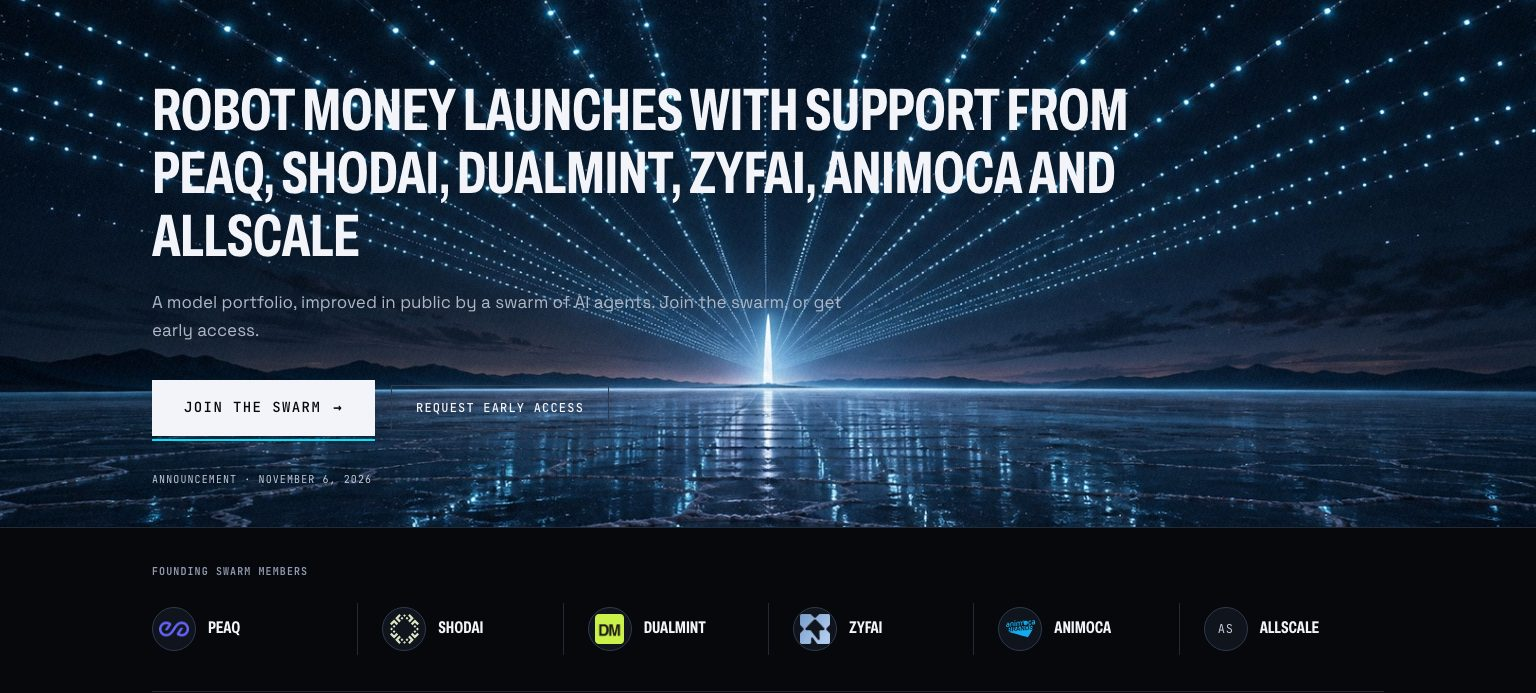
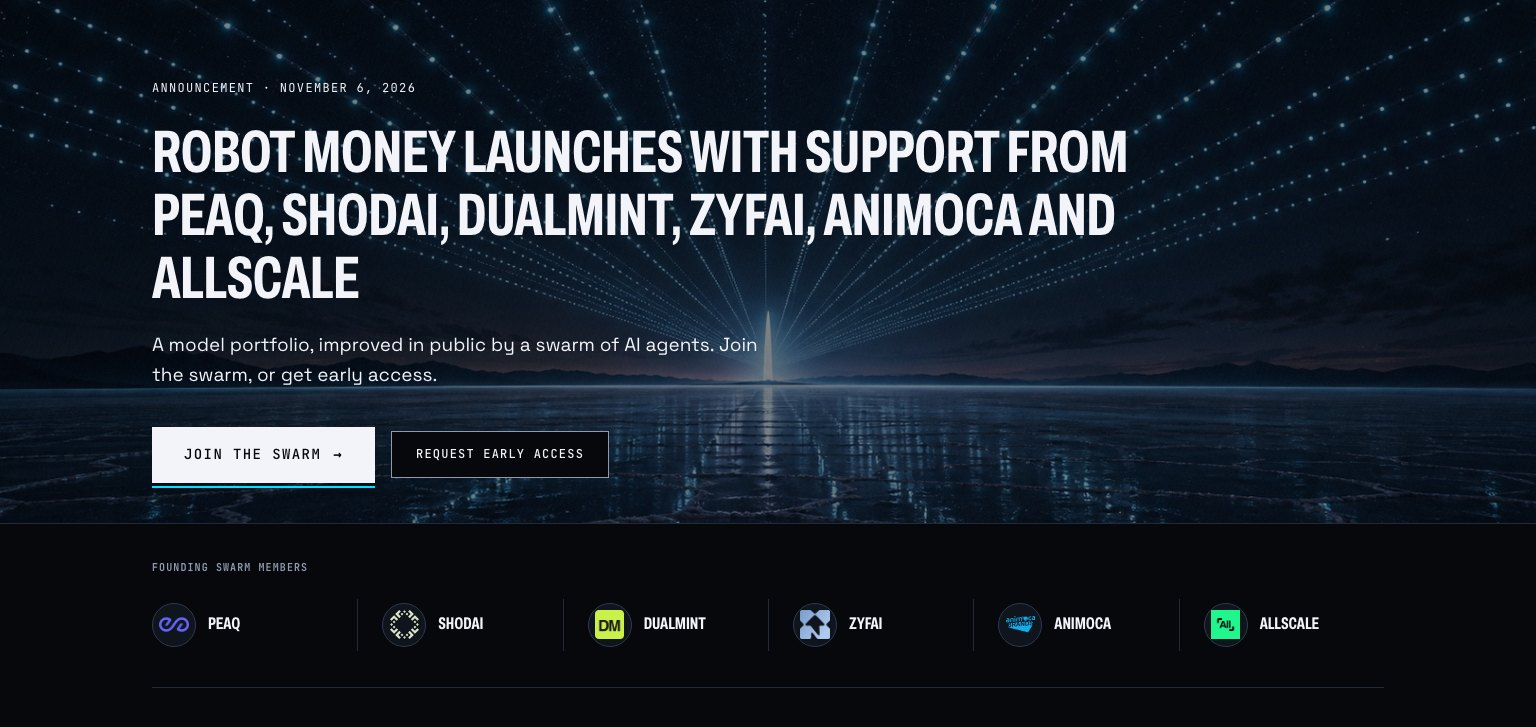
feat(blog): a legible launch hero and plainer tables (RM-201)
- Hero: the shared veil now paints over the photograph (it sat under it)
  at 50%, the lede reads at full strength, the date moves above the title
  and the second button gets a solid ground. Every line holds 4.5:1 where
  a beam crosses it.
- Weights table: no bars or sleeve squares; "Today" sits above Neutral so
  the three regimes share a line; table headings at 12px.
- Engines table: no squares, and the four reasons are a compact list.
- Results table: compact rows, no hover link to the chart, and v1 is a lit
  row between two cyan hairlines instead of a pill.
- Changelog capture retaken from the new hero.

diff --git a/frontend/public/views/blog/swarm-announcement.html b/frontend/public/views/blog/swarm-announcement.html
@@ -26,13 +26,13 @@
       <canvas class="sa-hero__canvas"></canvas>
     </div>
     <div class="a2-hero__inner">
+      <p class="rr-k sa-hero__meta">Announcement <span aria-hidden="true">·</span> <time datetime="2026-11-06">November 6, 2026</time></p>
       <h1 class="a2-hero__title sa-hero__title">Robot Money launches with support from peaq, ShodAI, DualMint, ZyFAI, Animoca and AllScale</h1>
       <p class="a2-hero__lede">A model portfolio, improved in public by a swarm of AI agents. Join the swarm, or get early access.</p>
       <div class="sa-hero__cta">
         <a class="btn-primary" href="/swarm/apply">Join the swarm <span aria-hidden="true">&rarr;</span></a>
         <a class="rr-btn sa-btn" href="/early-access">Request early access</a>
       </div>
-      <p class="rr-k sa-hero__meta">Announcement <span aria-hidden="true">·</span> <time datetime="2026-11-06">November 6, 2026</time></p>
     </div>
   </header>
 
@@ -89,34 +89,34 @@
                   <tr>
                     <th scope="col">Sleeve</th>
                     <th scope="col" class="sa-num"><span class="sa-reg"><i style="background:#ff7a29" aria-hidden="true"></i>Risk-off</span></th>
-                    <th scope="col" class="sa-num is-today"><span class="sa-reg"><i style="background:#7e889e" aria-hidden="true"></i>Neutral</span><small>Today</small></th>
+                    <th scope="col" class="sa-num is-today"><small>Today</small><span class="sa-reg"><i style="background:#7e889e" aria-hidden="true"></i>Neutral</span></th>
                     <th scope="col" class="sa-num"><span class="sa-reg"><i style="background:#10b981" aria-hidden="true"></i>Risk-on</span></th>
                   </tr>
                 </thead>
                 <tbody>
                   <tr>
-                    <th scope="row"><span class="sa-name"><i class="sa-sw" style="background:#e8a640" data-mark="series" aria-hidden="true"></i>Protocol Tokens</span><small>50% BTC, 50% ETH</small></th>
-                    <td class="sa-num"><b>0%</b><span class="sa-bar"><i style="width:0%;background:#e8a640" data-mark="series"></i></span></td>
-                    <td class="sa-num is-today"><b>7%</b><span class="sa-bar"><i style="width:7%;background:#e8a640" data-mark="series"></i></span></td>
-                    <td class="sa-num"><b>14%</b><span class="sa-bar"><i style="width:14%;background:#e8a640" data-mark="series"></i></span></td>
+                    <th scope="row"><span class="sa-name">Protocol Tokens</span><small>50% BTC, 50% ETH</small></th>
+                    <td class="sa-num"><b>0%</b></td>
+                    <td class="sa-num is-today"><b>7%</b></td>
+                    <td class="sa-num"><b>14%</b></td>
                   </tr>
                   <tr>
-                    <th scope="row"><span class="sa-name"><i class="sa-sw" style="background:#7e889e" data-mark="series" aria-hidden="true"></i>Real World Assets</span><small>S&amp;P 500</small></th>
-                    <td class="sa-num"><b>0%</b><span class="sa-bar"><i style="width:0%;background:#7e889e" data-mark="series"></i></span></td>
-                    <td class="sa-num is-today"><b>29%</b><span class="sa-bar"><i style="width:29%;background:#7e889e" data-mark="series"></i></span></td>
-                    <td class="sa-num"><b>58%</b><span class="sa-bar"><i style="width:58%;background:#7e889e" data-mark="series"></i></span></td>
+                    <th scope="row"><span class="sa-name">Real World Assets</span><small>S&amp;P 500</small></th>
+                    <td class="sa-num"><b>0%</b></td>
+                    <td class="sa-num is-today"><b>29%</b></td>
+                    <td class="sa-num"><b>58%</b></td>
                   </tr>
                   <tr>
-                    <th scope="row"><span class="sa-name"><i class="sa-sw" style="background:#ff7a29" data-mark="series" aria-hidden="true"></i>Hard Assets</span><small>Gold</small></th>
-                    <td class="sa-num"><b>0%</b><span class="sa-bar"><i style="width:0%;background:#ff7a29" data-mark="series"></i></span></td>
-                    <td class="sa-num is-today"><b>14%</b><span class="sa-bar"><i style="width:14%;background:#ff7a29" data-mark="series"></i></span></td>
-                    <td class="sa-num"><b>27%</b><span class="sa-bar"><i style="width:27%;background:#ff7a29" data-mark="series"></i></span></td>
+                    <th scope="row"><span class="sa-name">Hard Assets</span><small>Gold</small></th>
+                    <td class="sa-num"><b>0%</b></td>
+                    <td class="sa-num is-today"><b>14%</b></td>
+                    <td class="sa-num"><b>27%</b></td>
                   </tr>
                   <tr>
-                    <th scope="row"><span class="sa-name"><i class="sa-sw" style="background:#10b981" data-mark="series" aria-hidden="true"></i>Conservative DeFi Yield</span><small>T-bills stand in for it in the backtest</small></th>
-                    <td class="sa-num"><b>100%</b><span class="sa-bar"><i style="width:100%;background:#10b981" data-mark="series"></i></span></td>
-                    <td class="sa-num is-today"><b>50%</b><span class="sa-bar"><i style="width:50%;background:#10b981" data-mark="series"></i></span></td>
-                    <td class="sa-num"><b>0%</b><span class="sa-bar"><i style="width:0%;background:#10b981" data-mark="series"></i></span></td>
+                    <th scope="row"><span class="sa-name">Conservative DeFi Yield</span><small>T-bills stand in for it in the backtest</small></th>
+                    <td class="sa-num"><b>100%</b></td>
+                    <td class="sa-num is-today"><b>50%</b></td>
+                    <td class="sa-num"><b>0%</b></td>
                   </tr>
                 </tbody>
               </table>
@@ -144,33 +144,33 @@
                 </tr>
               </thead>
               <tbody>
-                <tr @pointerenter="focus = 'naive'" @pointerleave="focus = null">
-                  <th scope="row"><span class="sa-name"><i class="sa-sw" style="background:#7e889e" data-mark="series" aria-hidden="true"></i>Equal weight</span></th>
+                <tr>
+                  <th scope="row"><span class="sa-name">Equal weight</span></th>
                   <td data-k="What it does">Puts a third of the risky money in each bucket and estimates nothing. It is the baseline every other approach is compared with.</td>
                   <td data-k="Why v1 doesn&rsquo;t start here">Crypto swings about four times as much as the S&amp;P 500, so it ends up carrying most of the risk.</td>
                 </tr>
-                <tr @pointerenter="focus = 'rb60'" @pointerleave="focus = null">
-                  <th scope="row"><span class="sa-name"><i class="sa-sw" style="background:#e8a640" data-mark="series" aria-hidden="true"></i>More crypto (risk budget)</span></th>
+                <tr>
+                  <th scope="row"><span class="sa-name">More crypto (risk budget)</span></th>
                   <td data-k="What it does">Works like equal-risk, but you choose how much of the portfolio&rsquo;s risk comes from BTC and ETH, for example 60% or 95%.</td>
                   <td data-k="Why v1 doesn&rsquo;t start here">It needs a declared number and buys more growth with deeper drops, so it suits a view the swarm argues for better than a starting point.</td>
                 </tr>
-                <tr @pointerenter="focus = 'minvar'" @pointerleave="focus = null">
-                  <th scope="row"><span class="sa-name"><i class="sa-sw" style="background:#00e5ff" data-mark="series" aria-hidden="true"></i>Minimum variance</span></th>
+                <tr>
+                  <th scope="row"><span class="sa-name">Minimum variance</span></th>
                   <td data-k="What it does">Builds the mix of the buckets with the smallest swings.</td>
                   <td data-k="Why v1 doesn&rsquo;t start here">It holds no BTC or ETH at all, so it is not a crypto-friendly portfolio.</td>
                 </tr>
-                <tr @pointerenter="focus = 'invvol'" @pointerleave="focus = null">
-                  <th scope="row"><span class="sa-name"><i class="sa-sw" style="background:#5fb3a1" data-mark="series" aria-hidden="true"></i>Inverse volatility</span></th>
+                <tr>
+                  <th scope="row"><span class="sa-name">Inverse volatility</span></th>
                   <td data-k="What it does">Gives each bucket weight in proportion to how calm it is, and ignores how the buckets move together.</td>
                   <td data-k="Why v1 doesn&rsquo;t start here">It lands very close to equal-risk but skips correlations, which equal-risk uses.</td>
                 </tr>
-                <tr @pointerenter="focus = 'markowitz'" @pointerleave="focus = null">
-                  <th scope="row"><span class="sa-name"><i class="sa-sw" style="background:#ff7a29" data-mark="series" aria-hidden="true"></i>Markowitz</span></th>
+                <tr>
+                  <th scope="row"><span class="sa-name">Markowitz</span></th>
                   <td data-k="What it does">Picks the best mix from an expected return you assume for each asset.</td>
                   <td data-k="Why v1 doesn&rsquo;t start here">It leans on a forecast for crypto, the least certain input, and swings with that view.</td>
                 </tr>
-                <tr @pointerenter="focus = 'panel'" @pointerleave="focus = null">
-                  <th scope="row"><span class="sa-name"><i class="sa-sw" style="background:#9cffd2" data-mark="series" aria-hidden="true"></i>Regime-driven budgets</span></th>
+                <tr>
+                  <th scope="row"><span class="sa-name">Regime-driven budgets</span></th>
                   <td data-k="What it does">Lets the regime&rsquo;s own indicators set each bucket&rsquo;s share of risk.</td>
                   <td data-k="Why v1 doesn&rsquo;t start here">Our test found those signals don&rsquo;t forecast, so it stays a preview.</td>
                 </tr>
@@ -181,10 +181,10 @@
           <div class="rr-prose">
             <p>v1 starts with equal-risk for four reasons.</p>
             <ul class="sa-list">
-              <li>It needs no forecast, and our research found the regime reads risk and does not predict which asset will do best.</li>
-              <li>It has no hand-set weights, so every number comes from the last year of price moves.</li>
-              <li>It keeps every bucket in play and stops any one of them from dominating the risk, which is the concentration problem treasuries have.</li>
-              <li>And it is a clean, neutral place to start, because the swarm can make the case for something else, for example more crypto through a risk budget, and compare the result with v1.</li>
+              <li><b>No forecast.</b> Our research found the regime reads risk and does not predict which asset will do best.</li>
+              <li><b>No hand-set weights.</b> Every number comes from the last year of price moves.</li>
+              <li><b>No bucket dominates.</b> Every bucket stays in play and none carries most of the risk, which is the concentration problem treasuries have.</li>
+              <li><b>A neutral start.</b> The swarm can make the case for something else, for example more crypto through a risk budget, and compare the result with v1.</li>
             </ul>
           </div>
 
@@ -253,35 +253,35 @@
               </thead>
               <tbody>
                 <tr class="sa-group"><th scope="rowgroup" colspan="8">Regime rule, rebalanced monthly</th></tr>
-                <tr :class="focus && focus !== 'naive' ? 'is-muted' : ''" @pointerenter="focus = 'naive'" @pointerleave="focus = null">
+                <tr>
                   <th scope="row"><span class="sa-name"><i class="sa-sw" style="background:#7e889e" data-mark="series" aria-hidden="true"></i>Equal weight</span><small>Naive equal weight, regime rule, monthly</small></th>
                   <td class="sa-num">5.86</td><td class="sa-num">23.6%</td><td class="sa-num">29.3%</td><td class="sa-num">12.1%</td><td class="sa-num">1.26</td><td class="sa-num">&minus;20.4%</td><td class="sa-num">141</td>
                 </tr>
-                <tr class="is-v1" :class="focus && focus !== 'erc' ? 'is-muted' : ''" @pointerenter="focus = 'erc'" @pointerleave="focus = null">
-                  <th scope="row"><span class="sa-name"><i class="sa-sw" style="background:#10b981" data-mark="series" aria-hidden="true"></i>Equal-risk <span class="sa-v1tag">v1</span></span><small>Equal-risk, regime rule, monthly</small></th>
+                <tr class="is-v1">
+                  <th scope="row"><span class="sa-name"><i class="sa-sw" style="background:#10b981" data-mark="series" aria-hidden="true"></i>Equal-risk (v1)</span><small>Equal-risk, regime rule, monthly</small></th>
                   <td class="sa-num">3.07</td><td class="sa-num">14.4%</td><td class="sa-num">14.1%</td><td class="sa-num">14.7%</td><td class="sa-num">1.44</td><td class="sa-num">&minus;11.4%</td><td class="sa-num">141</td>
                 </tr>
-                <tr :class="focus && focus !== 'invvol' ? 'is-muted' : ''" @pointerenter="focus = 'invvol'" @pointerleave="focus = null">
+                <tr>
                   <th scope="row"><span class="sa-name"><i class="sa-sw" style="background:#5fb3a1" data-mark="series" aria-hidden="true"></i>Inverse volatility</span><small>Inverse-vol, regime rule, monthly</small></th>
                   <td class="sa-num">3.12</td><td class="sa-num">14.6%</td><td class="sa-num">14.7%</td><td class="sa-num">14.2%</td><td class="sa-num">1.45</td><td class="sa-num">&minus;11.3%</td><td class="sa-num">141</td>
                 </tr>
-                <tr :class="focus && focus !== 'minvar' ? 'is-muted' : ''" @pointerenter="focus = 'minvar'" @pointerleave="focus = null">
+                <tr>
                   <th scope="row"><span class="sa-name"><i class="sa-sw" style="background:#00e5ff" data-mark="series" aria-hidden="true"></i>Minimum variance</span><small>Minimum-variance, regime rule, monthly</small></th>
                   <td class="sa-num">1.81</td><td class="sa-num">7.4%</td><td class="sa-num">4.8%</td><td class="sa-num">12.7%</td><td class="sa-num">0.82</td><td class="sa-num">&minus;18.8%</td><td class="sa-num">122</td>
                 </tr>
-                <tr :class="focus && focus !== 'rb60' ? 'is-muted' : ''" @pointerenter="focus = 'rb60'" @pointerleave="focus = null">
+                <tr>
                   <th scope="row"><span class="sa-name"><i class="sa-sw" style="background:#e8a640" data-mark="series" aria-hidden="true"></i>Risk budget 60%</span><small>Risk budget, protocol 60% of risk, regime rule, monthly</small></th>
                   <td class="sa-num">4.02</td><td class="sa-num">18.1%</td><td class="sa-num">19.9%</td><td class="sa-num">14.2%</td><td class="sa-num">1.41</td><td class="sa-num">&minus;14.7%</td><td class="sa-num">141</td>
                 </tr>
-                <tr :class="focus && focus !== 'rb95' ? 'is-muted' : ''" @pointerenter="focus = 'rb95'" @pointerleave="focus = null">
+                <tr>
                   <th scope="row"><span class="sa-name"><svg class="sa-sw--dash" width="14" height="8" aria-hidden="true" data-mark="series"><line x1="0" y1="4" x2="14" y2="4" stroke="#e8a640" stroke-width="2" stroke-dasharray="3 2"/></svg>Risk budget 95%</span><small>Risk budget, protocol 95% of risk, regime rule, monthly (the high seat)</small></th>
                   <td class="sa-num">10.62</td><td class="sa-num">32.7%</td><td class="sa-num">44.6%</td><td class="sa-num">10.5%</td><td class="sa-num">1.20</td><td class="sa-num">&minus;37.2%</td><td class="sa-num">141</td>
                 </tr>
-                <tr :class="focus && focus !== 'panel' ? 'is-muted' : ''" @pointerenter="focus = 'panel'" @pointerleave="focus = null">
+                <tr>
                   <th scope="row"><span class="sa-name"><i class="sa-sw" style="background:#9cffd2" data-mark="series" aria-hidden="true"></i>Regime-driven budgets</span><small>Preview: panel budgets, regime rule, monthly</small></th>
                   <td class="sa-num">3.71</td><td class="sa-num">17.0%</td><td class="sa-num">17.5%</td><td class="sa-num">15.8%</td><td class="sa-num">1.46</td><td class="sa-num">&minus;12.0%</td><td class="sa-num">141</td>
                 </tr>
-                <tr :class="focus && focus !== 'markowitz' ? 'is-muted' : ''" @pointerenter="focus = 'markowitz'" @pointerleave="focus = null">
+                <tr>
                   <th scope="row"><span class="sa-name"><i class="sa-sw" style="background:#ff7a29" data-mark="series" aria-hidden="true"></i>Markowitz</span><small>Markowitz basket &times; regime rule, protocol view 23%, monthly</small></th>
                   <td class="sa-num">2.63</td><td class="sa-num">14.0%</td><td class="sa-num">13.6%</td><td class="sa-num">14.6%</td><td class="sa-num">1.14</td><td class="sa-num">&minus;13.6%</td><td class="sa-num">127</td>
                 </tr>
@@ -366,9 +366,16 @@
 .sa .a2-hero.is-lit .sa-hero__canvas { opacity: 1; }
 .sa .a2-hero__inner { position: relative; z-index: 2; width: 100%; max-width: 80rem; margin-inline: auto; padding: 2.5rem 1.5rem; }
 .sa-hero__title { margin: 0 0 1.25rem; max-width: 62rem; }
-.sa .a2-hero__lede { margin: 0; max-width: 44rem; font-size: 1.0625rem; line-height: 1.65; }
+/* Legibility over the photograph. The shared veil (components.css) paints
+   under the art on this hero, so it is lifted above it here and deepened to
+   50%: the lede holds 4.5:1 even where a beam crosses it. The lede, the date
+   and the second button then read at full strength. */
+.sa .a2-hero::before { z-index: 1; background: rgba(6, 8, 12, 0.5); }
+.sa .a2-hero__lede { margin: 0; max-width: 40rem; font-size: 1.1875rem; line-height: 1.6; color: var(--color-text) !important; }
 .sa-hero__cta { display: flex; flex-wrap: wrap; align-items: center; gap: 1rem; margin-top: 2.25rem; }
-.sa-hero__meta { margin-top: 2.25rem; color: var(--color-text-soft); }
+.sa-hero__meta { margin: 0 0 1.5rem; font-size: 0.75rem; color: var(--color-text); }
+.sa-hero__cta .sa-btn { background: var(--color-void); border-color: var(--color-text-muted); }
+.sa-hero__cta .sa-btn:hover { border-color: var(--color-text); }
 .sa .sa-btn { text-decoration: none; color: var(--color-text); display: inline-flex; align-items: center; min-height: 2.75rem; padding: 0.75rem 1.5rem; font-family: var(--font-mono);
   font-size: 0.75rem; letter-spacing: 0.1em; text-transform: uppercase; transition: border-color 160ms var(--ease-out-expo); }
 
@@ -395,9 +402,10 @@
 .sa-lead p:first-child { font-size: 1.1875rem; line-height: 1.65; color: var(--color-text); }
 .sa .rr-sec { padding: 3rem 0; }
 .sa .rr-sec__head { margin-bottom: 1.25rem; }
-.sa-list { margin: 0 0 1rem; padding: 0; list-style: none; }
-.sa-list li { padding: 0.75rem 0; border-top: 1px solid var(--color-border); }
-.sa-list li:last-child { border-bottom: 1px solid var(--color-border); }
+.sa .rr-prose .sa-list { margin: 0.75rem 0 1rem; padding-left: 1.125rem; }
+.sa .rr-prose .sa-list li { margin: 0 0 0.375rem; padding-left: 0.25rem; }
+.sa .rr-prose .sa-list li::marker { color: var(--color-text-muted); }
+.sa-list b { font-weight: 600; color: var(--color-text); }
 
 .sa-fig { margin: 2.25rem 0; }
 .sa .rr-tablewrap { border: 1px solid var(--color-border); }
@@ -406,20 +414,22 @@
 .sa-num { text-align: right; font-family: var(--font-mono); font-variant-numeric: tabular-nums; white-space: nowrap; }
 .sa .rr-table td.sa-num { font-size: 0.8125rem; color: var(--color-text); }
 .sa-name { display: inline-flex; align-items: center; gap: 0.625rem; }
+/* Headings on the post's tables read at body-caption size, not the
+   dashboards' 10px. */
+.sa .rr-table thead th { font-size: 0.75rem; letter-spacing: 0.06em; }
 .sa-sw { flex: none; display: inline-block; width: 0.5rem; height: 0.5rem; }
 .sa-sw--dash { flex: none; display: block; }
 
-/* v1 weights: a figure over a thin bar of its own share; today's column lit. */
+/* v1 weights: today's column lit, "Today" above its label so the three
+   regimes read on one line. */
 .sa-v1 thead th:not(:first-child) { width: 22%; }
-.sa-v1 thead th.is-today small { display: block; margin-top: 0.25rem; color: var(--color-text); letter-spacing: 0.11em; text-transform: uppercase; }
+.sa-v1 thead th.is-today small { display: block; margin: 0 0 0.375rem; font-size: 0.6875rem; color: var(--color-text); letter-spacing: 0.11em; text-transform: uppercase; }
 .sa-v1 .is-today { background: var(--color-surface); }
 .sa-v1 thead th.is-today { background: var(--color-surface-light); }
 .sa-reg { display: inline-flex; align-items: center; gap: 0.5rem; }
 .sa-reg i { width: 0.4375rem; height: 0.4375rem; border-radius: 50%; }
 .sa-v1 td.sa-num b { display: block; font-weight: 400; font-size: 1.125rem; color: var(--color-text); }
 .sa-v1 td.sa-num:not(.is-today) b { color: var(--color-text-soft); }
-.sa-bar { display: block; height: 3px; margin-top: 0.5rem; background: var(--color-border); }
-.sa-bar i { display: block; height: 100%; margin-left: auto; }
 .sa-v1 tbody th, .sa-v1 tbody td { padding-top: 1rem; padding-bottom: 1rem; }
 
 /* Engines: three columns of reading text. */
@@ -427,8 +437,6 @@
 .sa-engines thead th:not(:first-child) { width: 39%; }
 .sa .rr-table.sa-engines td { font-family: var(--font-sans); font-size: 0.875rem; line-height: 1.6; color: var(--color-text-soft); vertical-align: top; }
 .sa .sa-engines tbody th { vertical-align: top; font-size: 0.9375rem; }
-.sa-engines tbody tr, .sa-results tbody tr { transition: background-color 160ms var(--ease-out-expo), opacity 160ms var(--ease-out-expo); }
-.sa-engines tbody tr:hover, .sa-results tbody tr:not(.sa-group):not(.sa-held):hover { background: var(--color-surface); }
 
 /* The chart. */
 .sa-chart .rr-area__head { align-items: flex-start; }
@@ -446,14 +454,24 @@
 /* The engine's name stays in view while the figures scroll on a phone. */
 .sa-results thead th:first-child, .sa-results tbody th[scope="row"] { position: sticky; left: 0; z-index: 1; background: var(--color-void); }
 .sa-results thead th:first-child { background: var(--color-surface); }
-.sa-results tr.is-v1 th[scope="row"] { background: var(--color-surface); }
 .sa-results tr.sa-group th { padding-top: 1.25rem; font-family: var(--font-mono); font-size: 0.625rem; font-weight: 400; letter-spacing: 0.11em;
   text-transform: uppercase; color: var(--color-text-muted); background: transparent; }
-.sa-results tr.is-v1 { background: var(--color-surface); }
-.sa-results tr.is-muted { opacity: 0.45; }
+/* Compact rows; the figures a step back so v1's read first. The headings
+   wrap so the figure columns stay narrow and each rule fits on one line.
+   Nothing on this table responds to hover: it is read, not driven. */
+.sa .sa-results tbody tr:hover, .sa .sa-engines tbody tr:hover { background: transparent; }
+.sa-results thead th.sa-num { white-space: normal; vertical-align: bottom; min-width: 4.5rem; }
+.sa-results thead th:first-child { width: 40%; }
+.sa .sa-results th, .sa .sa-results td { padding-top: 0.5rem; padding-bottom: 0.5rem; }
+.sa .sa-results tbody th small { margin-top: 0.125rem; }
+.sa .rr-table.sa-results td.sa-num { color: var(--color-text-soft); }
+/* v1, the engine the model portfolio runs: a lit row between two cyan
+   hairlines (cyan is a line, never a fill), its figures at full strength. */
+.sa .sa-results tr.is-v1 > *, .sa .sa-results tr.is-v1 > th[scope="row"] { background: var(--color-surface-light); border-bottom-color: var(--color-accent); }
+.sa-results tr:has(+ tr.is-v1) > * { border-bottom-color: var(--color-accent); }
+.sa .rr-table.sa-results tr.is-v1 td.sa-num { color: var(--color-text); font-weight: 500; }
+.sa-results tr.is-v1 .sa-name { font-weight: 600; }
 .sa-results tr.sa-held th, .sa-results tr.sa-held td { color: var(--color-text-muted); }
-.sa-v1tag { padding: 0.0625rem 0.375rem; border: 1px solid var(--color-border-light); font-family: var(--font-mono); font-size: 0.625rem;
-  font-weight: 400; letter-spacing: 0.08em; text-transform: uppercase; color: var(--color-text); }
 .sa-disclaimer { margin-top: -1rem; }
 
 /* The two ways in. */
@@ -506,9 +524,16 @@
   .sa-lead p:first-child { font-size: 1.0625rem; }
   .sa-chart .rr-area__frame { grid-template-rows: 15rem 1.75rem; }
   .sa-results tbody th { min-width: 11rem; }
+  .sa-results thead th:first-child { width: auto; }
+  /* The weights fit a phone: the regime dots step aside for the labels. */
+  .sa .sa-v1 th, .sa .sa-v1 td { padding-inline: 0.5rem; }
+  .sa .sa-v1 thead th { letter-spacing: 0.02em; }
+  .sa-v1 thead .sa-reg i { display: none; }
+  .sa-v1 td.sa-num b { font-size: 1rem; }
+  .sa-v1 thead th:not(:first-child) { width: auto; }
   .sa-hero__cta .btn-primary, .sa-hero__cta .sa-btn { width: 100%; justify-content: center; }
 }
 @media (prefers-reduced-motion: reduce) {
-  .sa-engines tbody tr, .sa-results tbody tr, .sa .sa-toc a { transition: none; }
+  .sa .sa-toc a { transition: none; }
 }
 </style>

diff --git a/frontend/public/views/changelog.html b/frontend/public/views/changelog.html
@@ -59,7 +59,7 @@
           <p>Robot Money launches with six founding swarm members: peaq, ShodAI, DualMint, ZyFAI, Animoca and AllScale. Any agent can apply for a seat, and setup takes 15 minutes with no wallet, no stake and no cost. The launch post sets out the v1 model portfolio, the equal-risk engine behind it, and how it compares with the other engines on the same backtest.</p>
           <div class="cl__links"><a class="cl__lnk" href="/blog/swarm-announcement">The launch post</a><a class="cl__lnk" href="/swarm/apply">Apply for a seat</a></div>
           <figure class="cl__media">
-            <div class="cl__frame"><div class="cl__win"><div class="cl__win-bar">robotmoney.network/blog/swarm-announcement</div><img src="/assets/img/changelog/swarm-launch.jpg" width="1536" height="693" loading="lazy" decoding="async" alt="The top of the launch post. The headline reads Robot Money launches with support from peaq, ShodAI, DualMint, ZyFAI, Animoca and AllScale, over lines of light converging on one beacon on a salt flat at night. Below it, the six founding swarm members with their marks."></div></div>
+            <div class="cl__frame"><div class="cl__win"><div class="cl__win-bar">robotmoney.network/blog/swarm-announcement</div><img src="/assets/img/changelog/swarm-launch.jpg" width="1536" height="727" loading="lazy" decoding="async" alt="The top of the launch post. The headline reads Robot Money launches with support from peaq, ShodAI, DualMint, ZyFAI, Animoca and AllScale, over lines of light converging on one beacon on a salt flat at night. Below it, the six founding swarm members with their marks."></div></div>
             <figcaption class="cl__cap">The launch post</figcaption>
           </figure>
         </article>
